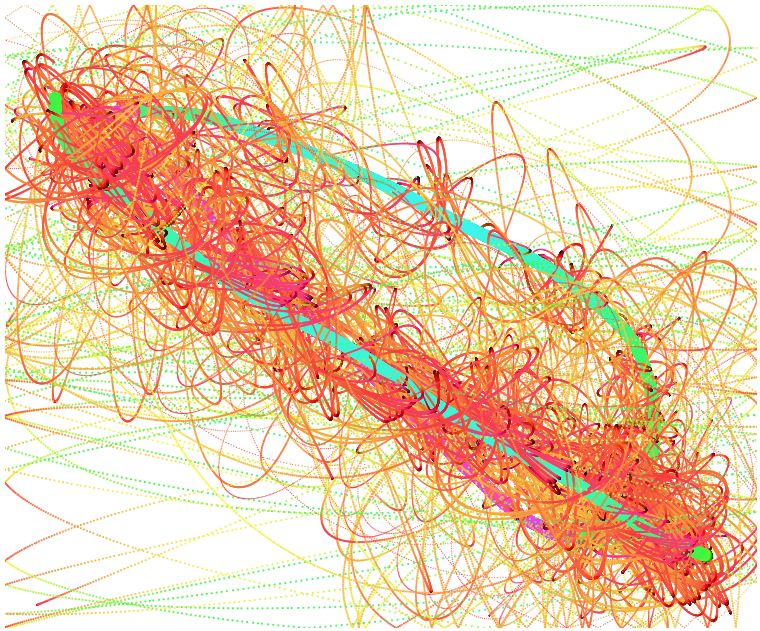
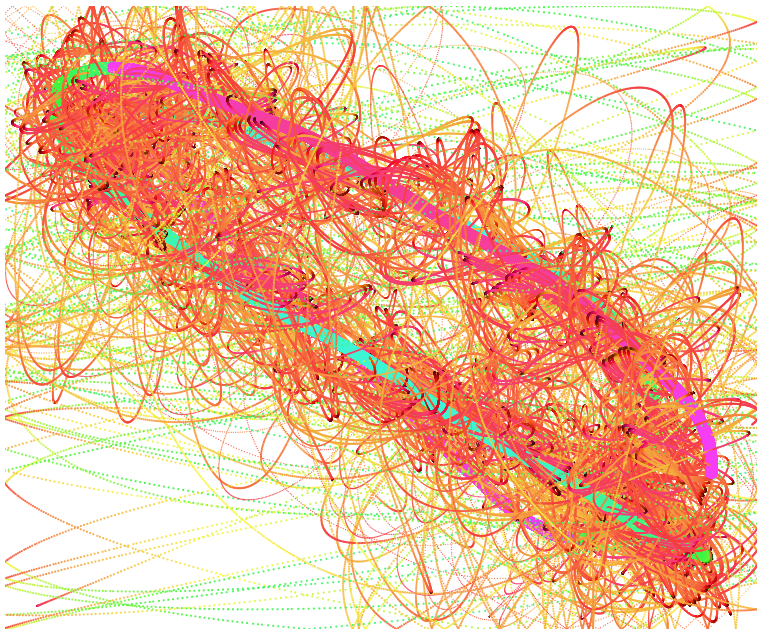
Add perfectly synchronized calculation

diff --git a/lib/particle.js b/lib/particle.js
@@ -1,14 +1,21 @@
 /**
- * Single particle
+ * Single particle.
+ * Fundamental concept - it is immutable.
+ * It feels immutability reflects quantum mechanics in a way.
  */
 var audioCtx = require('audio-context');
 var random = require('distributions-normal-random/lib/number');
 var extend = require('xtend/mutable');
-
+var clamp = require('mumath/clamp');
+var mod = require('mumath/mod');
 
 module.exports = Particle;
 
 
+
+/**
+ * A unit of matter
+ */
 function Particle (options) {
 	//current position
 	this.x = random(200, 100);
@@ -22,18 +29,16 @@ function Particle (options) {
 	this.ay = 0;
 
 	//size
-	this.mass = clamp(random(30, 10), 0.1, 30);
-
-	this.color = 'black';
-
+	this.mass = random(20, 0);
 
 	extend(this, options);
 }
 
+
 /**
- * Look at the world (other particles), create own values = goals
+ * Look at the world, other particles, create own values = goals
  */
-Particle.prototype.setGoals = function (particles, container, step) {
+Particle.prototype.observe = function (particles, container) {
 	var self = this;
 
 	//attraction to other particles create squared accleration
@@ -46,44 +51,91 @@ Particle.prototype.setGoals = function (particles, container, step) {
 	});
 
 	//own values (goals to move) - might be assessed unclearly
-	this.ax = random(ax / (particles.length - 1), 0.13) || 0;
-	this.ay = random(ay / (particles.length - 1), 0.13) || 0;
+	this.ax = random(ax / (particles.length - 1), 0.0) || 0;
+	this.ay = random(ay / (particles.length - 1), 0.0) || 0;
+
+	//some decreaser
+	this.ax *= 0.01;
+	this.ay *= 0.01;
+
+	return this.spawn();
 };
 
 
 /**
- * React according to the own values
+ * Act according to the goals
  */
-Particle.prototype.act = function (step) {
+Particle.prototype.act = function () {
 	var self = this;
 
-	this.vx += this.ax * step;
-	this.vy += this.ay * step;
+	this.vx += this.ax;
+	this.vy += this.ay;
 
-	var dX = this.vx * step;
-	var dY = this.vy * step;
+	var dX = this.vx * 0.01;
+	var dY = this.vy * 0.01;
 
 	this.x += dX;
 	this.y += dY;
+
+	return this.spawn();
 };
 
 
 /**
  * React on limitations of the physics
  */
-Particle.prototype.react = function (container, step) {
+Particle.prototype.react = function (container) {
 	//inverse bounds
-	if (this.x > container[2] || this.x < container[0]) {
-		this.vx = -this.vx;
-		this.x = clamp(this.x, container[0], container[2]);
-	}
-	if (this.y > container[3] || this.y < container[0]) {
-		this.vy = -this.vy;
-		this.y = clamp(this.y, container[1], container[3]);
-	}
+	// if (this.x > container[2] || this.x < container[0]) {
+	// 	this.vx = -this.vx;
+	// 	this.x = clamp(this.x, container[0], container[2]);
+	// }
+	// if (this.y > container[3] || this.y < container[0]) {
+	// 	this.vy = -this.vy;
+	// 	this.y = clamp(this.y, container[1], container[3]);
+	// }
+
+	return this.spawn();
 };
 
 
+/**
+ * Spawn a clone of that particle
+ */
+Particle.prototype.spawn = function () {
+	return new Particle(this);
+};
+
+
+/**
+ * Present itself (react on light)
+ */
+Particle.prototype.render = function (canvas) {
+	var ctx = canvas.getContext('2d');
+
+	var w = canvas.width;
+	var h = canvas.height;
+
+	//loop rendering, not the real position
+	var x = mod(this.x, 0, w);
+	var y = mod(this.y, 0, h);
+
+	var v = this.velocity;
+	var a = this.accleration;
+
+	//for each particle - draw current position
+	ctx.fillStyle = 'hsl(' + (v*this.mass/100) + ', ' + clamp(v*this.mass, 0, 90) + '%, ' + clamp(v + v*this.mass/40, 0, 60) + '%)';
+
+	ctx.beginPath();
+	ctx.arc(x, y, clamp(this.mass / 30, 1, 6), 0, 2 * Math.PI);
+	ctx.closePath();
+	ctx.fill();
+};
+
+
+/**
+ * Some other points of view on the particle, or metrics
+ */
 Object.defineProperties(Particle.prototype, {
 	velocity: {
 		get: function () {
@@ -104,9 +156,8 @@ Object.defineProperties(Particle.prototype, {
 });
 
 
-function clamp(a, min, max) {
-	return Math.max(min, Math.min(max, a));
-}
+
+//utils
 function len (x, y) {
 	return Math.sqrt(x*x + y*y) || 0;
 }

diff --git a/index.js b/index.js
@@ -1,32 +1,31 @@
 var Canvas = require('drawille-canvas');
 var raf = require('raf');
 var Particle = require('./lib/particle');
+var clamp = require('mumath/clamp');
 
-
-//create rendering vacuum
+//create space
 var canvas = new Canvas(window.innerWidth - 20, window.innerHeight - 20);
 document.body.appendChild(canvas);
 var w = canvas.width;
 var h = canvas.height;
 
 
-//create set of particles (our universe)
 var particles = [];
 
 //add one huge driving particle (blackhole)
-var driver = new Particle({mass: 432});
-particles.push(driver);
+// var driver = new Particle({mass: 4320000});
+// particles.push(driver);
 
 
+//create set of particles
 for (var i = 0; i < 3; i++) {
 	var p = new Particle({
-		color: 'black'
 	});
 	particles.push(p);
 }
 
 
-//create particle
+//create particle by wish of the god
 canvas.addEventListener('mousedown', function (e) {
 	particles.push(new Particle({
 		x: e.offsetX,
@@ -34,78 +33,25 @@ canvas.addEventListener('mousedown', function (e) {
 	}));
 });
 
-//add direct control for the driver (discontinuous in all derivatives)
-// canvas.addEventListener('mousedown', function (e) {
-// 	set(e);
-// 	canvas.addEventListener('mousemove', set);
 
-// 	function set (e) {
-// 		driver.x = e.offsetX;
-// 		driver.y = e.offsetY;
-// 		driver.vx = 0;
-// 		driver.vy = 0;
-// 		driver.ax = 0;
-// 		driver.ay = 0;
-// 	}
-
-// 	canvas.addEventListener('mouseup', function end () {
-// 		canvas.removeEventListener('mousemove', set);
-// 		canvas.removeEventListener('mouseup', end);
-// 	});
-// });
-
-
-//create interaction of particles (live)
+//create interaction of particles in turn (live)
 var interval = 1;
 setInterval(function () {
-	particles.forEach(function (particle) {
-		particle.setGoals(particles, [0,0,w,h], 0.002);
-		particle.act(0.002);
-		particle.react([0,0,w,h], 0.002);
+	//handle all particles syncronously
+	particles = particles.map(function (particle) {
+		return particle
+		.observe(particles, [0,0,w,h])
+		.act()
+		.react([0,0,w,h]);
 	});
 }, interval);
 
 
-
-
-/**
- * Trace movement of particles
- */
+//light up particles
 raf(function draw () {
-	var ctx = canvas.getContext('2d');
-
-	// ctx.fillStyle = 'rgba(255,255,255,.03)';
-	// ctx.fillRect(0,0,w,h);
-
-	var maxDist = Math.sqrt(w*w + h*h);
 	particles.forEach(function (particle) {
-		var maxVol = 0.1;
-		var dist = Math.sqrt((driver.x - particle.x)*(driver.x - particle.x) + (driver.y - particle.y)*(driver.y - particle.y));
-
-		var v = particle.velocity;
-		var a = particle.accleration;
-
-		//f is dopler effect - how much v vector is towards the target
-		var distV = [driver.x - particle.x, driver.y - particle.y];
-		var velV = [particle.vx, particle.vy];
-		var angle = (distV[0]*velV[0] + distV[1] + velV[1]) / (particle.velocity * Math.sqrt(distV[0]*distV[0] + distV[1]*distV[1])) || 0;
-		angle = clamp(angle, -Math.PI, Math.PI);
-
-
-		//for each particle - draw current position
-		ctx.fillStyle = 'hsla(' + (v*particle.mass/200 - (angle/Math.PI) * 100) + ', ' + clamp(v*particle.mass, 0, 90) + '%, ' + clamp(v + v*particle.mass/40, 0, 60) + '%, ' + clamp(v*particle.mass/130,0,.9) + ')';
-
-		ctx.beginPath();
-		ctx.arc(particle.x, particle.y, clamp(particle.mass / 30, 0.5, 6), 0, 2 * Math.PI);
-		ctx.closePath();
-		ctx.fill();
-
+		particle.render(canvas);
 	});
 
 	raf(draw);
 });
-
-
-function clamp(a, min, max) {
-	return Math.max(min, Math.min(max, a));
-}

diff --git a/lib/cell.js b/lib/cell.js
@@ -1,0 +1,16 @@
+/**
+ * Cell is a particle, able to divide
+ */
+
+var Particle = require('./particle');
+var inherits = require('inherits');
+
+
+function Cell (options) {
+	Particle.call(this, options);
+}
+
+inherits(Cell, Particle);
+
+
+Cell.
